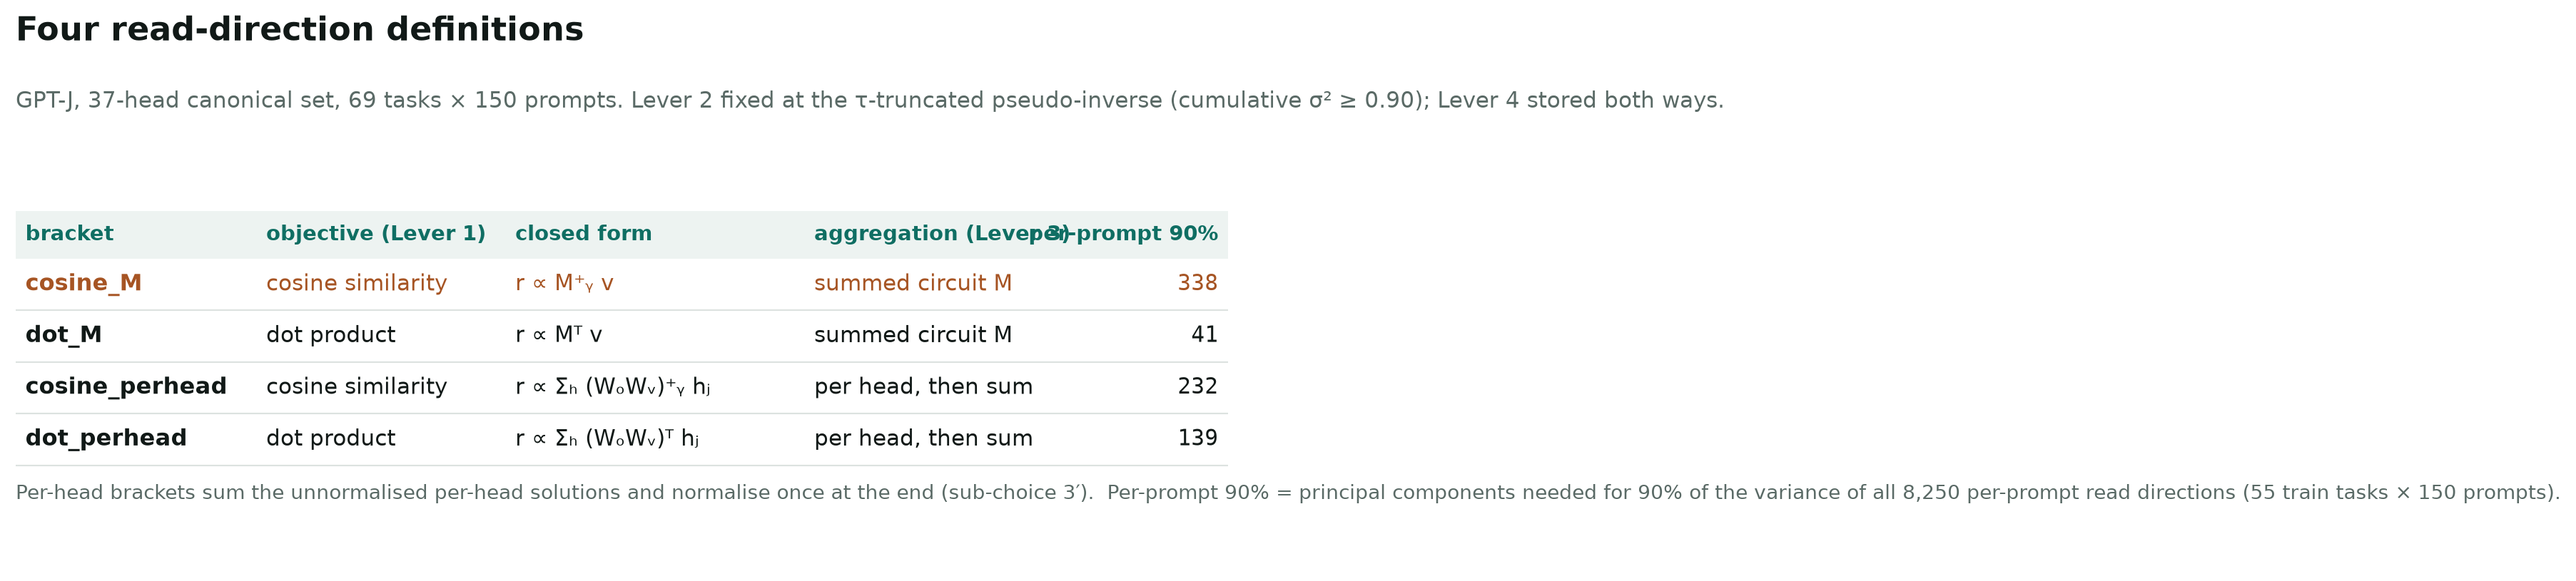
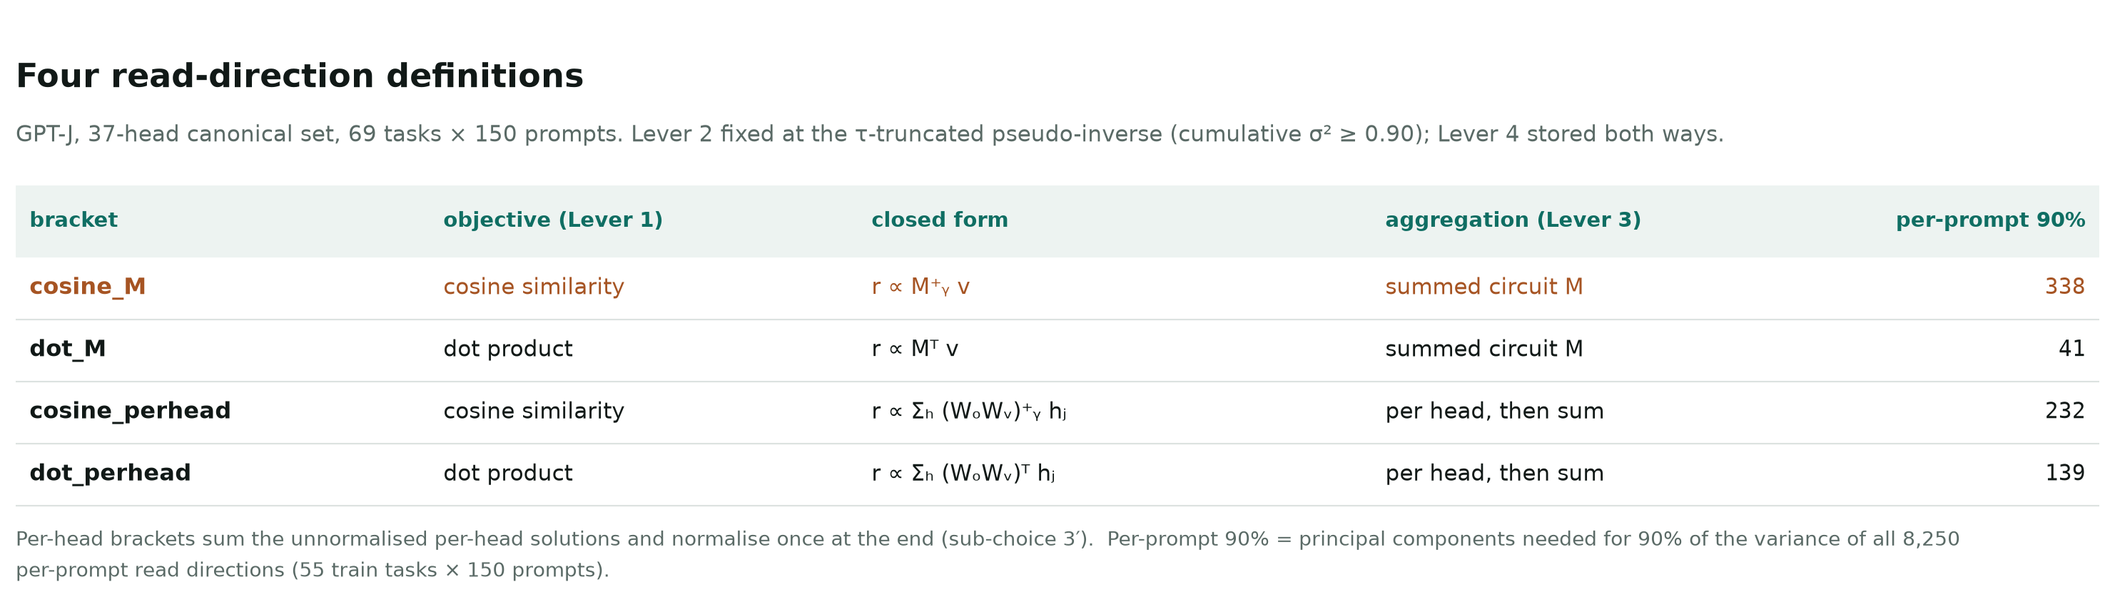
Fix table layout: inch-based geometry, auto-widened columns, wrapped captions

diff --git a/src/eval_scripts/make_readdir_writeup_assets.py b/src/eval_scripts/make_readdir_writeup_assets.py
@@ -13,6 +13,7 @@ cosine_M outlier; tabular figures; no chartjunk.
 """
 import csv
 import sys
+import textwrap
 from pathlib import Path
 
 import numpy as np
@@ -48,44 +49,69 @@ plt.rcParams.update({
 
 
 def table_fig(col_labels, rows, col_widths, title, subtitle, note=None,
-              row_accents=None, align=None, height_per_row=0.46, width=12.0):
-    """Render a text table as a figure: banded header, hairline row rules, no boxes."""
+              row_accents=None, align=None, width=12.0):
+    """Render a text table as a figure: banded header, hairline row rules, no boxes.
+
+    Geometry is in inches, not axes fractions, so nothing silently overflows the canvas:
+    the title/subtitle/note are wrapped to the table's own width, and column widths are
+    checked against the widest string each column has to hold.
+    """
     n = len(rows)
-    fig_h = 1.45 + height_per_row * n + (0.42 if note else 0)
+    align = align or ["left"] * len(col_labels)
+    # widen any column whose header or cells would not fit (≈ chars -> inches at 10pt)
+    col_widths = list(col_widths)
+    for j in range(len(col_labels)):
+        longest = max([len(str(col_labels[j])) * 0.075]
+                      + [len(str(r[j])) * 0.072 for r in rows]) + 0.18
+        span = width * col_widths[j] / sum(col_widths)
+        if span < longest:
+            col_widths[j] *= longest / span
+    scale = width / sum(col_widths)
+    col_in = [w * scale for w in col_widths]
+
+    sub_lines = textwrap.wrap(subtitle, int(width * 12.6)) if subtitle else []
+    note_lines = textwrap.wrap(note, int(width * 13.8)) if note else []
+    row_h, head_h = 0.40, 0.46
+    top_block = 0.34 + 0.235 * len(sub_lines) + 0.22
+    bot_block = (0.16 + 0.20 * len(note_lines)) if note_lines else 0.10
+    fig_h = top_block + head_h + row_h * n + bot_block
     fig, ax = plt.subplots(figsize=(width, fig_h), dpi=220)
     ax.set_axis_off()
-    ax.set_xlim(0, 1)
-    ax.set_ylim(0, 1)
-    xs = np.concatenate([[0.0], np.cumsum(col_widths)])
-    xs = xs / xs[-1]
-    top = 1.0
-    ax.text(0, top, title, fontsize=15, fontweight="bold", va="top", ha="left", color=INK)
-    ax.text(0, top - 0.115 * (4.4 / fig_h), subtitle, fontsize=10, va="top", ha="left", color=MUTED)
+    ax.set_xlim(0, width)
+    ax.set_ylim(0, fig_h)
+    xs = np.concatenate([[0.0], np.cumsum(col_in)])
 
-    head_y = top - 0.30 * (4.4 / fig_h)
-    row_h = (head_y - (0.16 if note else 0.06)) / (n + 1.15)
-    ax.add_patch(plt.Rectangle((0, head_y - row_h * 0.92), 1, row_h * 0.92,
-                               facecolor=BAND, edgecolor="none"))
-    align = align or ["left"] * len(col_labels)
+    y = fig_h - 0.30
+    ax.text(0, y, title, fontsize=15, fontweight="bold", va="top", ha="left", color=INK)
+    y -= 0.40
+    for line in sub_lines:
+        ax.text(0, y, line, fontsize=10, va="top", ha="left", color=MUTED)
+        y -= 0.235
+    y -= 0.16
+
+    ax.add_patch(plt.Rectangle((0, y - head_h), width, head_h, facecolor=BAND, edgecolor="none"))
     for j, lab in enumerate(col_labels):
-        x = xs[j] + 0.008 if align[j] == "left" else xs[j + 1] - 0.008
-        ax.text(x, head_y - row_h * 0.46, lab, fontsize=9.5, fontweight="bold",
+        x = xs[j] + 0.09 if align[j] == "left" else xs[j + 1] - 0.09
+        ax.text(x, y - head_h / 2, lab, fontsize=9.5, fontweight="bold",
                 va="center", ha=align[j], color=ACCENT)
-    y = head_y - row_h * 0.92
+    y -= head_h
     for i, row in enumerate(rows):
         col = SIGNAL if (row_accents and row_accents[i]) else INK
         for j, cell in enumerate(row):
-            x = xs[j] + 0.008 if align[j] == "left" else xs[j + 1] - 0.008
+            x = xs[j] + 0.09 if align[j] == "left" else xs[j + 1] - 0.09
             mono = j > 0 and any(ch.isdigit() for ch in str(cell))
-            ax.text(x, y - row_h * 0.5, str(cell), fontsize=10.5 if j == 0 else 10,
+            ax.text(x, y - row_h / 2, str(cell), fontsize=10.5 if j == 0 else 10,
                     va="center", ha=align[j], color=col,
                     fontweight="bold" if j == 0 else "normal",
                     family="DejaVu Sans Mono" if mono else "DejaVu Sans")
         y -= row_h
-        ax.plot([0, 1], [y, y], color=RULE, lw=0.7, zorder=0)
-    if note:
-        ax.text(0, y - row_h * 0.55, note, fontsize=9, va="center", ha="left", color=MUTED)
-    fig.tight_layout(pad=0.7)
+        ax.plot([0, width], [y, y], color=RULE, lw=0.7, zorder=0)
+    if note_lines:
+        y -= 0.16
+        for line in note_lines:
+            ax.text(0, y, line, fontsize=9, va="top", ha="left", color=MUTED)
+            y -= 0.20
+    fig.subplots_adjust(left=0.012, right=0.988, top=0.995, bottom=0.005)
     return fig
 
 
